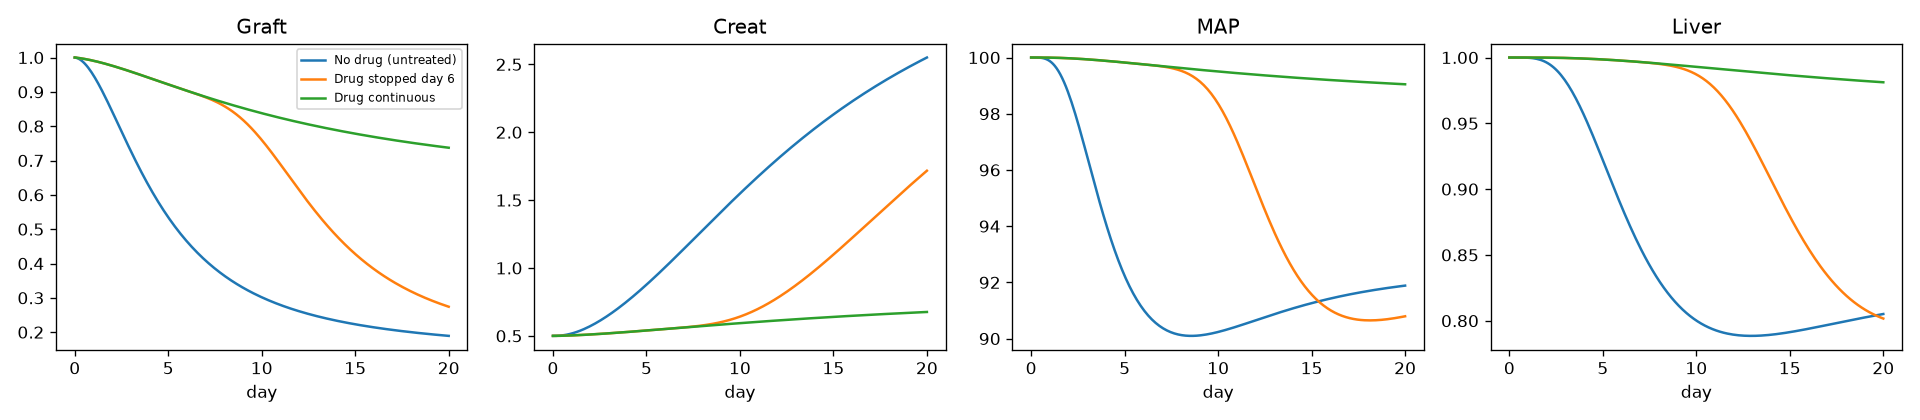
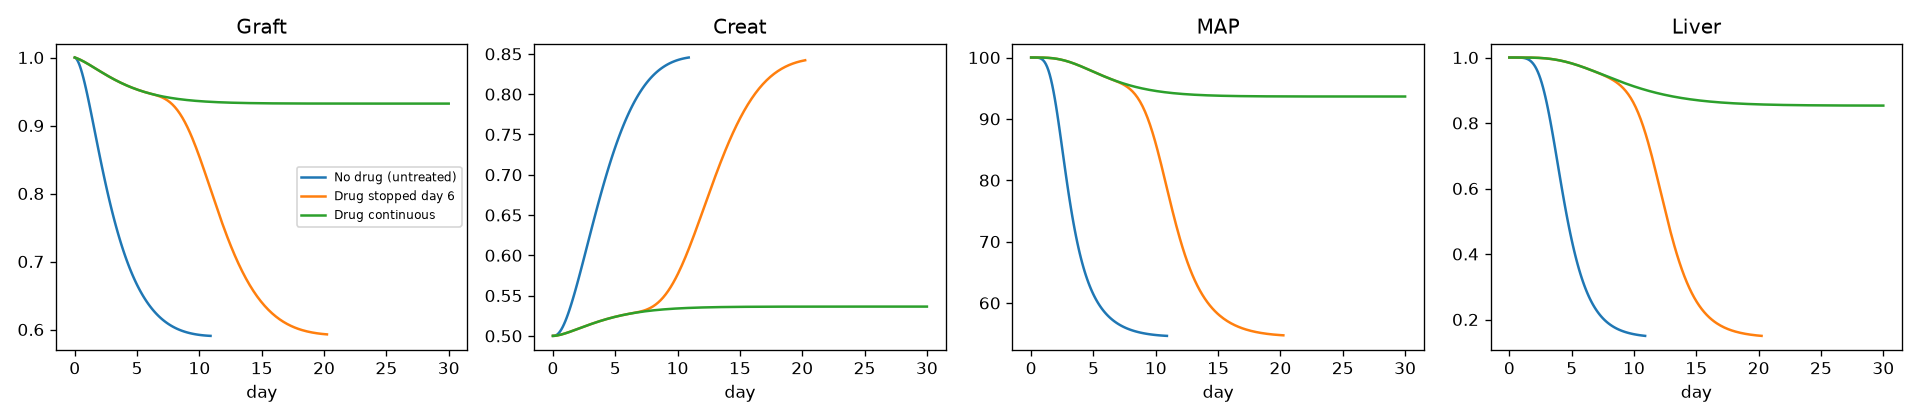
another test

diff --git a/results_view.html b/results_view.html
@@ -1,0 +1,105 @@
+<!DOCTYPE html>
+<html lang="en">
+<head>
+  <meta charset="UTF-8">
+  <title>Results CSV Viewer - Virtual Lab Rat</title>
+  <style>
+    body {
+      font-family: -apple-system, BlinkMacSystemFont, "Segoe UI", Roboto, Helvetica, Arial, sans-serif;
+      margin: 30px;
+      background: #f8fafc;
+      color: #1e293b;
+    }
+    h1 {
+      font-size: 1.4rem;
+      margin-bottom: 8px;
+    }
+    p {
+      color: #64748b;
+      margin-top: 0;
+      margin-bottom: 20px;
+      font-size: 0.95rem;
+    }
+    .container {
+      background: white;
+      border-radius: 8px;
+      padding: 20px;
+      box-shadow: 0 1px 3px rgba(0,0,0,0.1);
+      overflow-x: auto;
+    }
+    table {
+      width: 100%;
+      border-collapse: collapse;
+      text-align: left;
+      font-size: 0.9rem;
+    }
+    th {
+      background: #f1f5f9;
+      color: #334155;
+      padding: 10px 14px;
+      border-bottom: 2px solid #cbd5e1;
+      font-weight: 600;
+      position: sticky;
+      top: 0;
+    }
+    td {
+      padding: 8px 14px;
+      border-bottom: 1px solid #e2e8f0;
+    }
+    tr:nth-child(even) {
+      background: #f8fafc;
+    }
+    tr:hover {
+      background: #eef2f6;
+    }
+    .badge {
+      display: inline-block;
+      padding: 3px 8px;
+      border-radius: 4px;
+      font-size: 0.8rem;
+      font-weight: 500;
+    }
+    .badge-nodrug { background: #fee2e2; color: #991b1b; }
+    .badge-stopped { background: #fef3c7; color: #92400e; }
+    .badge-cont { background: #dcfce7; color: #166534; }
+  </style>
+</head>
+<body>
+  <div class="container">
+    <h1>Virtual Lab Rat - results.csv</h1>
+    <p>Simulated daily biomarkers across scenarios (Untreated, Stopped Day 6, Continuous)</p>
+    <div id="table-container"></div>
+  </div>
+
+  <script>
+    fetch('results.csv')
+      .then(response => response.text())
+      .then(csvText => {
+        const lines = csvText.trim().split('\n');
+        const headers = lines[0].split(',');
+        let html = '<table><thead><tr>';
+        headers.forEach(h => html += `<th>${h}</th>`);
+        html += '</tr></thead><tbody>';
+
+        for (let i = 1; i < lines.length; i++) {
+          const cols = lines[i].split(',');
+          if (cols.length < headers.length) continue;
+          html += '<tr>';
+          cols.forEach((col, idx) => {
+            if (idx === 0) {
+              let badgeClass = 'badge-nodrug';
+              if (col.includes('stopped')) badgeClass = 'badge-stopped';
+              else if (col.includes('continuous') || col.includes('Continuous')) badgeClass = 'badge-cont';
+              html += `<td><span class="badge ${badgeClass}">${col}</span></td>`;
+            } else {
+              html += `<td>${col}</td>`;
+            }
+          });
+          html += '</tr>';
+        }
+        html += '</tbody></table>';
+        document.getElementById('table-container').innerHTML = html;
+      });
+  </script>
+</body>
+</html>

diff --git a/virtual_rat_sandbox.py b/virtual_rat_sandbox.py
@@ -19,16 +19,16 @@ class Params:
     t_prolif: float = 1.2       # effector T-cell growth rate (1/day)
     t_death: float = 0.35       # T-cell death rate (1/day)
     t_max: float = 10.0         # carrying capacity (arbitrary units)
-    mismatch: float = 0.8       # donor/recipient mismatch (0 = identical, 1 = maximum)
+    mismatch: float = 1.00     # donor/recipient mismatch (0 = identical, 1 = maximum)
     drug_ic50: float = 0.5      # drug level that halves T-cell growth
     drug_decay: float = 0.9     # drug clearance (1/day)
     infusion: float = 0.0       # drug input rate (set by the experiment runner)
     # graft (kidney) module
     kill_rate: float = 0.12     # graft killing by T cells
-    repair_rate: float = 0.05   # regeneration (1/day)
+    repair_rate: float = 0.5   # regeneration (1/day)
     # cytokine module
     cyt_from_t: float = 0.8
-    cyt_from_damage: float = 1.5
+    cyt_from_damage: float = 18.0
     cyt_clear: float = 1.0
     # kidney function (creatinine)
     cr_clear: float = 4.0       # 1/day
@@ -81,7 +81,7 @@ def make_events():
 # ---------------------------------------------------------------- 5. EXPERIMENT RUNNER
 @dataclass
 class Experiment:
-    days: float = 20.0
+    days: float = 30.0
     drug_dose: float = 5.0
     drug_stop_day: float | None = 6.0    # None = continuous dosing
     params: Params = field(default_factory=Params)
@@ -116,6 +116,7 @@ if __name__ == "__main__":
         "Drug stopped day 6":  Experiment(drug_dose=5.0, drug_stop_day=6.0),
         "Drug continuous":     Experiment(drug_dose=5.0, drug_stop_day=None),
     }
+
     results = {}
     for name, e in scenarios.items():
         t, y, status = run(e)
@@ -143,3 +144,31 @@ if __name__ == "__main__":
         print("\nGraph saved as rejection_cascade.png")
     except ImportError:
         print("\nmatplotlib not installed, so no graph was drawn (results above are still valid).")
+
+    import csv
+    with open("results.csv", "w", newline="") as f:
+        writer = csv.writer(f)
+        writer.writerow(["scenario", "day", "Graft", "Creat", "MAP", "Liver"])
+        for name, (t, y) in results.items():
+            for day in range(0, int(t[-1]) + 1):
+                j = np.searchsorted(t, day)
+                if j < len(t):
+                    writer.writerow([name, day, round(y[IDX["Graft"], j], 3),
+                                     round(y[IDX["Creat"], j], 3),
+                                     round(y[IDX["MAP"], j], 3),
+                                     round(y[IDX["Liver"], j], 3)])
+    print("Saved results.csv")
+
+    import csv
+    with open("results.csv", "w", newline="") as f:
+        writer = csv.writer(f)
+        writer.writerow(["scenario", "day", "Graft", "Creat", "MAP", "Liver"])
+        for name, (t, y) in results.items():
+            for day in range(0, int(t[-1]) + 1):
+                j = np.searchsorted(t, day)
+                if j < len(t):
+                    writer.writerow([name, day, round(y[IDX["Graft"], j], 3),
+                                     round(y[IDX["Creat"], j], 3),
+                                     round(y[IDX["MAP"], j], 3),
+                                     round(y[IDX["Liver"], j], 3)])
+    print("Saved results.csv")
